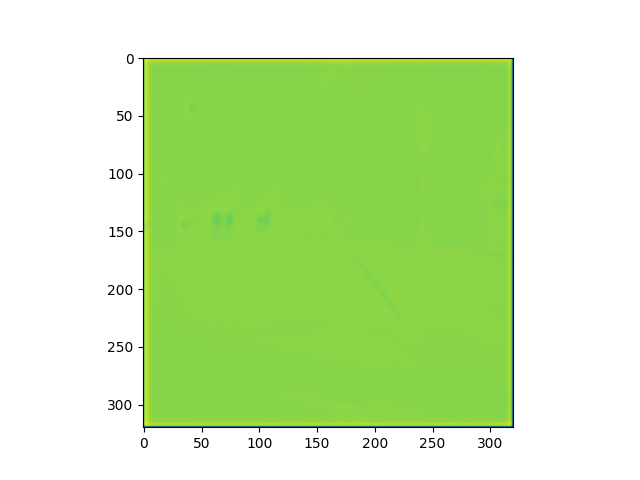
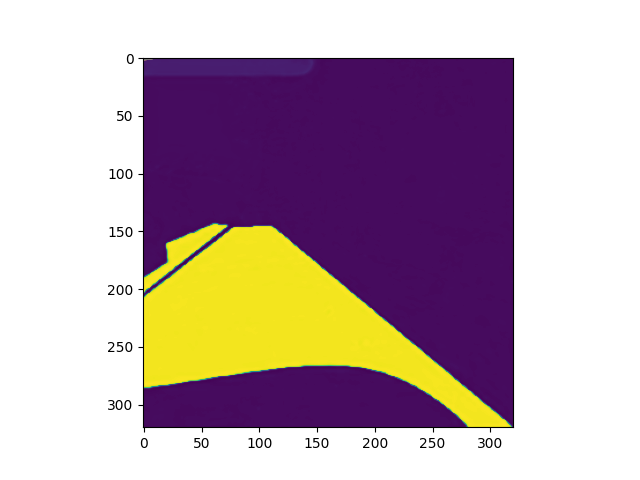
accuracy fixed and ready for train in ubuntu device

diff --git a/seg_utils/train.py b/seg_utils/train.py
@@ -24,6 +24,7 @@ from   seg_utils.accuracy import Accuracy
 
 
 def train_step(model,dataloader,loss_fn,accuracy_fn,optimizer,grad_scaler,device):
+
     total_loss = 0
     total_f1_lane = 0
     total_iou_drivable =0
@@ -62,9 +63,9 @@ def activation(x):
 def evaluate(net, dataloader, device):
     net.eval()
     num_val_batches = len(dataloader)
-    dice_score = 0
-    dice_score_lane = 0
-    dice_score_area = 0
+    iou = 0
+    iou_lane = 0
+    iou_area = 0
     # iterate over the validation set
     with torch.autocast(device):
         for i, (images, confidence_mask, instance_drivable  ) in enumerate(tqdm(dataloader)):
@@ -77,22 +78,25 @@ def evaluate(net, dataloader, device):
             predictions = net(image)
             Pred_Confidence , Pred_EmbeddingFeatureArea = predictions
             # Pred_Confidence = predictions
-            Pred_Confidence_Drivable = Pred_Confidence[:,0,:,:]
-            Pred_Confidence_Lane = Pred_Confidence[:,1,:,:]
-            dice_score_lane += Loss.dice_coeff(activation(Pred_Confidence_Lane),confidence_mask[:,1,:,:],reduce_batch_first=True)
-            dice_score_area += Loss.dice_coeff(activation(Pred_Confidence_Drivable),confidence_mask[:,0,:,:],reduce_batch_first=True)
-            dice_score += Loss.multiclass_dice_coeff(activation(Pred_Confidence), confidence_mask, reduce_batch_first=True)
+            Pred_Confidence_Drivable = activation(Pred_Confidence[:,0,:,:])
+            Pred_Confidence_Lane = activation(Pred_Confidence[:,1,:,:])
+            # Calculate IoU for Drivable Area
+            iou_area += Loss.calculate_iou(Pred_Confidence_Drivable > 0.5, confidence_mask[:, 0, :, :])
+
+            # Calculate IoU for Lane
+            iou_lane += Loss.calculate_iou(Pred_Confidence_Lane > 0.5, confidence_mask[:, 1, :, :])
+
     output = net(image)
     output=activation(output[0][0])            
     drivable_area_mask = output[0,:,:].cpu().numpy()
     lane_mask = output[1,:,:].cpu().numpy()
     plt.imshow(drivable_area_mask)
-    plt.savefig("/home/kia/Multi-Task-Network/Saved/saved_area.png")
+    plt.savefig("/home/ubuntu/Multi-Task-Network/Saved/saved_area.png")
     plt.imshow(lane_mask)
-    plt.savefig("/home/kia/Multi-Task-Network/Saved/saved_lane.png")
+    plt.savefig("/home/ubuntu/Multi-Task-Network/Saved/saved_lane.png")
 
     net.train()
-    return dice_score / max(num_val_batches, 1) , dice_score_area / max(num_val_batches, 1) , dice_score_lane / max(num_val_batches, 1)
+    return ((iou_area + iou_lane)/2) / max(num_val_batches, 1) , iou_area / max(num_val_batches, 1) , iou_lane / max(num_val_batches, 1)
 
 def train(args,P):
     # Initialize Parameters and set up paths and settings
@@ -107,15 +111,13 @@ def train(args,P):
     batch_size = args.batch_size
     shuffle = args.shuffle
     device = args.device
-    save_path =  os.path.join("/home/kia/Multi-Task-Network/Saved/")
+    save_path =  os.path.join("/home/ubuntu/Multi-Task-Network/Saved/")
     pre_trained = args.pre_trained
     #os.makedirs(save_path, exist_ok=True)
 
     # Create a dictionary to store results
     results = {"train_loss": [],
-        "train_lane_f1_acc": [],
         "train_lane_iou_acc": [],
-        "train_drivable_f1_acc": [],
         "train_drivable_iou_acc": [],
         "test_loss": [],
         "test_acc": []
@@ -180,15 +182,25 @@ def train(args,P):
 
 
         results["train_loss"].append(train_loss)
-        plt.plot(results["train_loss"])
+        results["train_lane_iou_acc"].append(lane_score)
+        results["train_drivable_iou_acc"].append(drivable_score)
 
-    torch.save(
-        model.state_dict(),
-        save_path+str(epoch)+'_'+str(train_loss)+'_'+'AurigaNet.pth'
-    )
+        plt.plot(results["train_loss"],label="train_loss")
+        plt.plot(results["train_lane_iou_acc"],label="train_lane_iou_acc")
+        plt.plot(results["train_drivable_iou_acc"],label="train_drivable_iou_acc")
+
+        plt.legend()
+
+
+
+        torch.save(
+            model.state_dict(),
+            save_path+str(epoch)+'_'+str(train_loss)+'_'+'AurigaNet.pth'
+        )
 
     print("Training complete")
-    plt.savefig("/home/kia/Multi-Task-Network/Saved/")
+    plt.savefig("/home/ubuntu/Multi-Task-Network/Saved/loss.png")
+
     # writer.close()
     return results , model
 
@@ -212,7 +224,7 @@ if __name__ == "__main__":
     # parser.add_argument("--data_path", type=str, help="Path to data.")
     # parser.add_argument("--label_path", type=str, help="Path to labels.")
     parser.add_argument("--pre_trained", type=str, default= "",help="Path to pre trained model.")
-    parser.add_argument("--save_path", type=str, default="/home/kia/Multi-Task-Network/" ,help="Path to save results.")
+    parser.add_argument("--save_path", type=str, default="/home/ubuntu/Multi-Task-Network/" ,help="Path to save results.")
     parser.add_argument("--device",type=str ,default="cuda", help="choose your training device cuda or cpu")
     parser.add_argument("--num_workers", type=int, default=1, help="Number of workers for dataloader.")
     parser.add_argument("--batch_size", type=int, default=1, help="Batch size.")

diff --git a/seg_utils/Parameters.py b/seg_utils/Parameters.py
@@ -12,24 +12,24 @@ class Parameters():
     # Dataset Parameters
     ##############################################################################
 
-    train_data_path = "/home/kia/BDD100K/bdd100k_images_100k_5/bdd100k/images/100k/train/"
-    train_label_path = '/home/kia/BDD100K/bdd100k_labels_release/bdd100k/labels/bdd100k_labels_images_train.json'
-    val_data_path = "/home/kia/BDD100K/bdd100k_images_100k_5/bdd100k/images/100k/val/"
-    val_label_path = '/home/kia/BDD100K/bdd100k_labels_release/bdd100k/labels/bdd100k_labels_images_val.json'
-    save_path = '/home/kia/BDD100K/Generated/'
-    train_Lane_Mask_path = "/home/kia/BDD100K/Generated/train/Lane_Masks"
-    train_Area_Mask_path = "/home/kia/BDD100K/Generated/train/Area_Mask"
-    val_Lane_Mask_path = "/home/kia/BDD100K/Generated/val/Lane_Masks"
-    val_Area_Mask_path = "/home/kia/BDD100K/Generated/val/Area_Mask"
-    # train_data_path = "/home/ubuntu/BDD100K/bdd100k/images/100k/train/"
-    # train_label_path = '/home/ubuntu/BDD100K/bdd100k/labels/bdd100k_labels_images_train.json'
-    # val_data_path = "/home/ubuntu/BDD100K/bdd100k/images/100k/val/"
-    # val_label_path = '/home/ubuntu/BDD100K/bdd100k/labels/bdd100k_labels_images_val.json'
-    # save_path = '/home/ubuntu/BDD100K/Generated'
-    # train_Lane_Mask_path = "/home/ubuntu/BDD100K/Generated/train/Lane_Masks"
-    # train_Area_Mask_path = "/home/ubuntu/BDD100K/Generated/train/Area_Mask"
-    # val_Lane_Mask_path = "/home/ubuntu/BDD100K/Generated/val/Lane_Masks"
-    # val_Area_Mask_path = "/home/ubuntu/BDD100K/Generated/val/Area_Mask"
+    # train_data_path = "/home/kia/BDD100K/bdd100k_images_100k_5/bdd100k/images/100k/train/"
+    # train_label_path = '/home/kia/BDD100K/bdd100k_labels_release/bdd100k/labels/bdd100k_labels_images_train.json'
+    # val_data_path = "/home/kia/BDD100K/bdd100k_images_100k_5/bdd100k/images/100k/val/"
+    # val_label_path = '/home/kia/BDD100K/bdd100k_labels_release/bdd100k/labels/bdd100k_labels_images_val.json'
+    # save_path = '/home/kia/BDD100K/Generated/'
+    # train_Lane_Mask_path = "/home/kia/BDD100K/Generated/train/Lane_Masks"
+    # train_Area_Mask_path = "/home/kia/BDD100K/Generated/train/Area_Mask"
+    # val_Lane_Mask_path = "/home/kia/BDD100K/Generated/val/Lane_Masks"
+    # val_Area_Mask_path = "/home/kia/BDD100K/Generated/val/Area_Mask"
+    train_data_path = "/home/ubuntu/BDD100K/bdd100k/images/100k/train/"
+    train_label_path = '/home/ubuntu/BDD100K/bdd100k/labels/bdd100k_labels_images_train.json'
+    val_data_path = "/home/ubuntu/BDD100K/bdd100k/images/100k/val/"
+    val_label_path = '/home/ubuntu/BDD100K/bdd100k/labels/bdd100k_labels_images_val.json'
+    save_path = '/home/ubuntu/BDD100K/Generated'
+    train_Lane_Mask_path = "/home/ubuntu/BDD100K/Generated/train/Lane_Masks"
+    train_Area_Mask_path = "/home/ubuntu/BDD100K/Generated/train/Area_Mask"
+    val_Lane_Mask_path = "/home/ubuntu/BDD100K/Generated/val/Lane_Masks"
+    val_Area_Mask_path = "/home/ubuntu/BDD100K/Generated/val/Area_Mask"
     class_mapping = {
         'traffic_light': 0,
         'traffic_sign': 1,

diff --git a/seg_utils/losses.py b/seg_utils/losses.py
@@ -173,7 +173,12 @@ def dice_loss(input: Tensor, target: Tensor, multiclass: bool = False):
 
 def activation(x):
     return 1e-7 + (1 - 2 * 1e-7) * (0.5 + torch.arctan(x)/torch.tensor(np.pi))
-
+    
+def calculate_iou(prediction, target):
+    intersection = torch.logical_and(prediction, target).sum()
+    union = torch.logical_or(prediction, target).sum()
+    iou = float(intersection) / float(union)
+    return iou
 class ComputeLoss(nn.Module) :
 
     def __init__(self):
